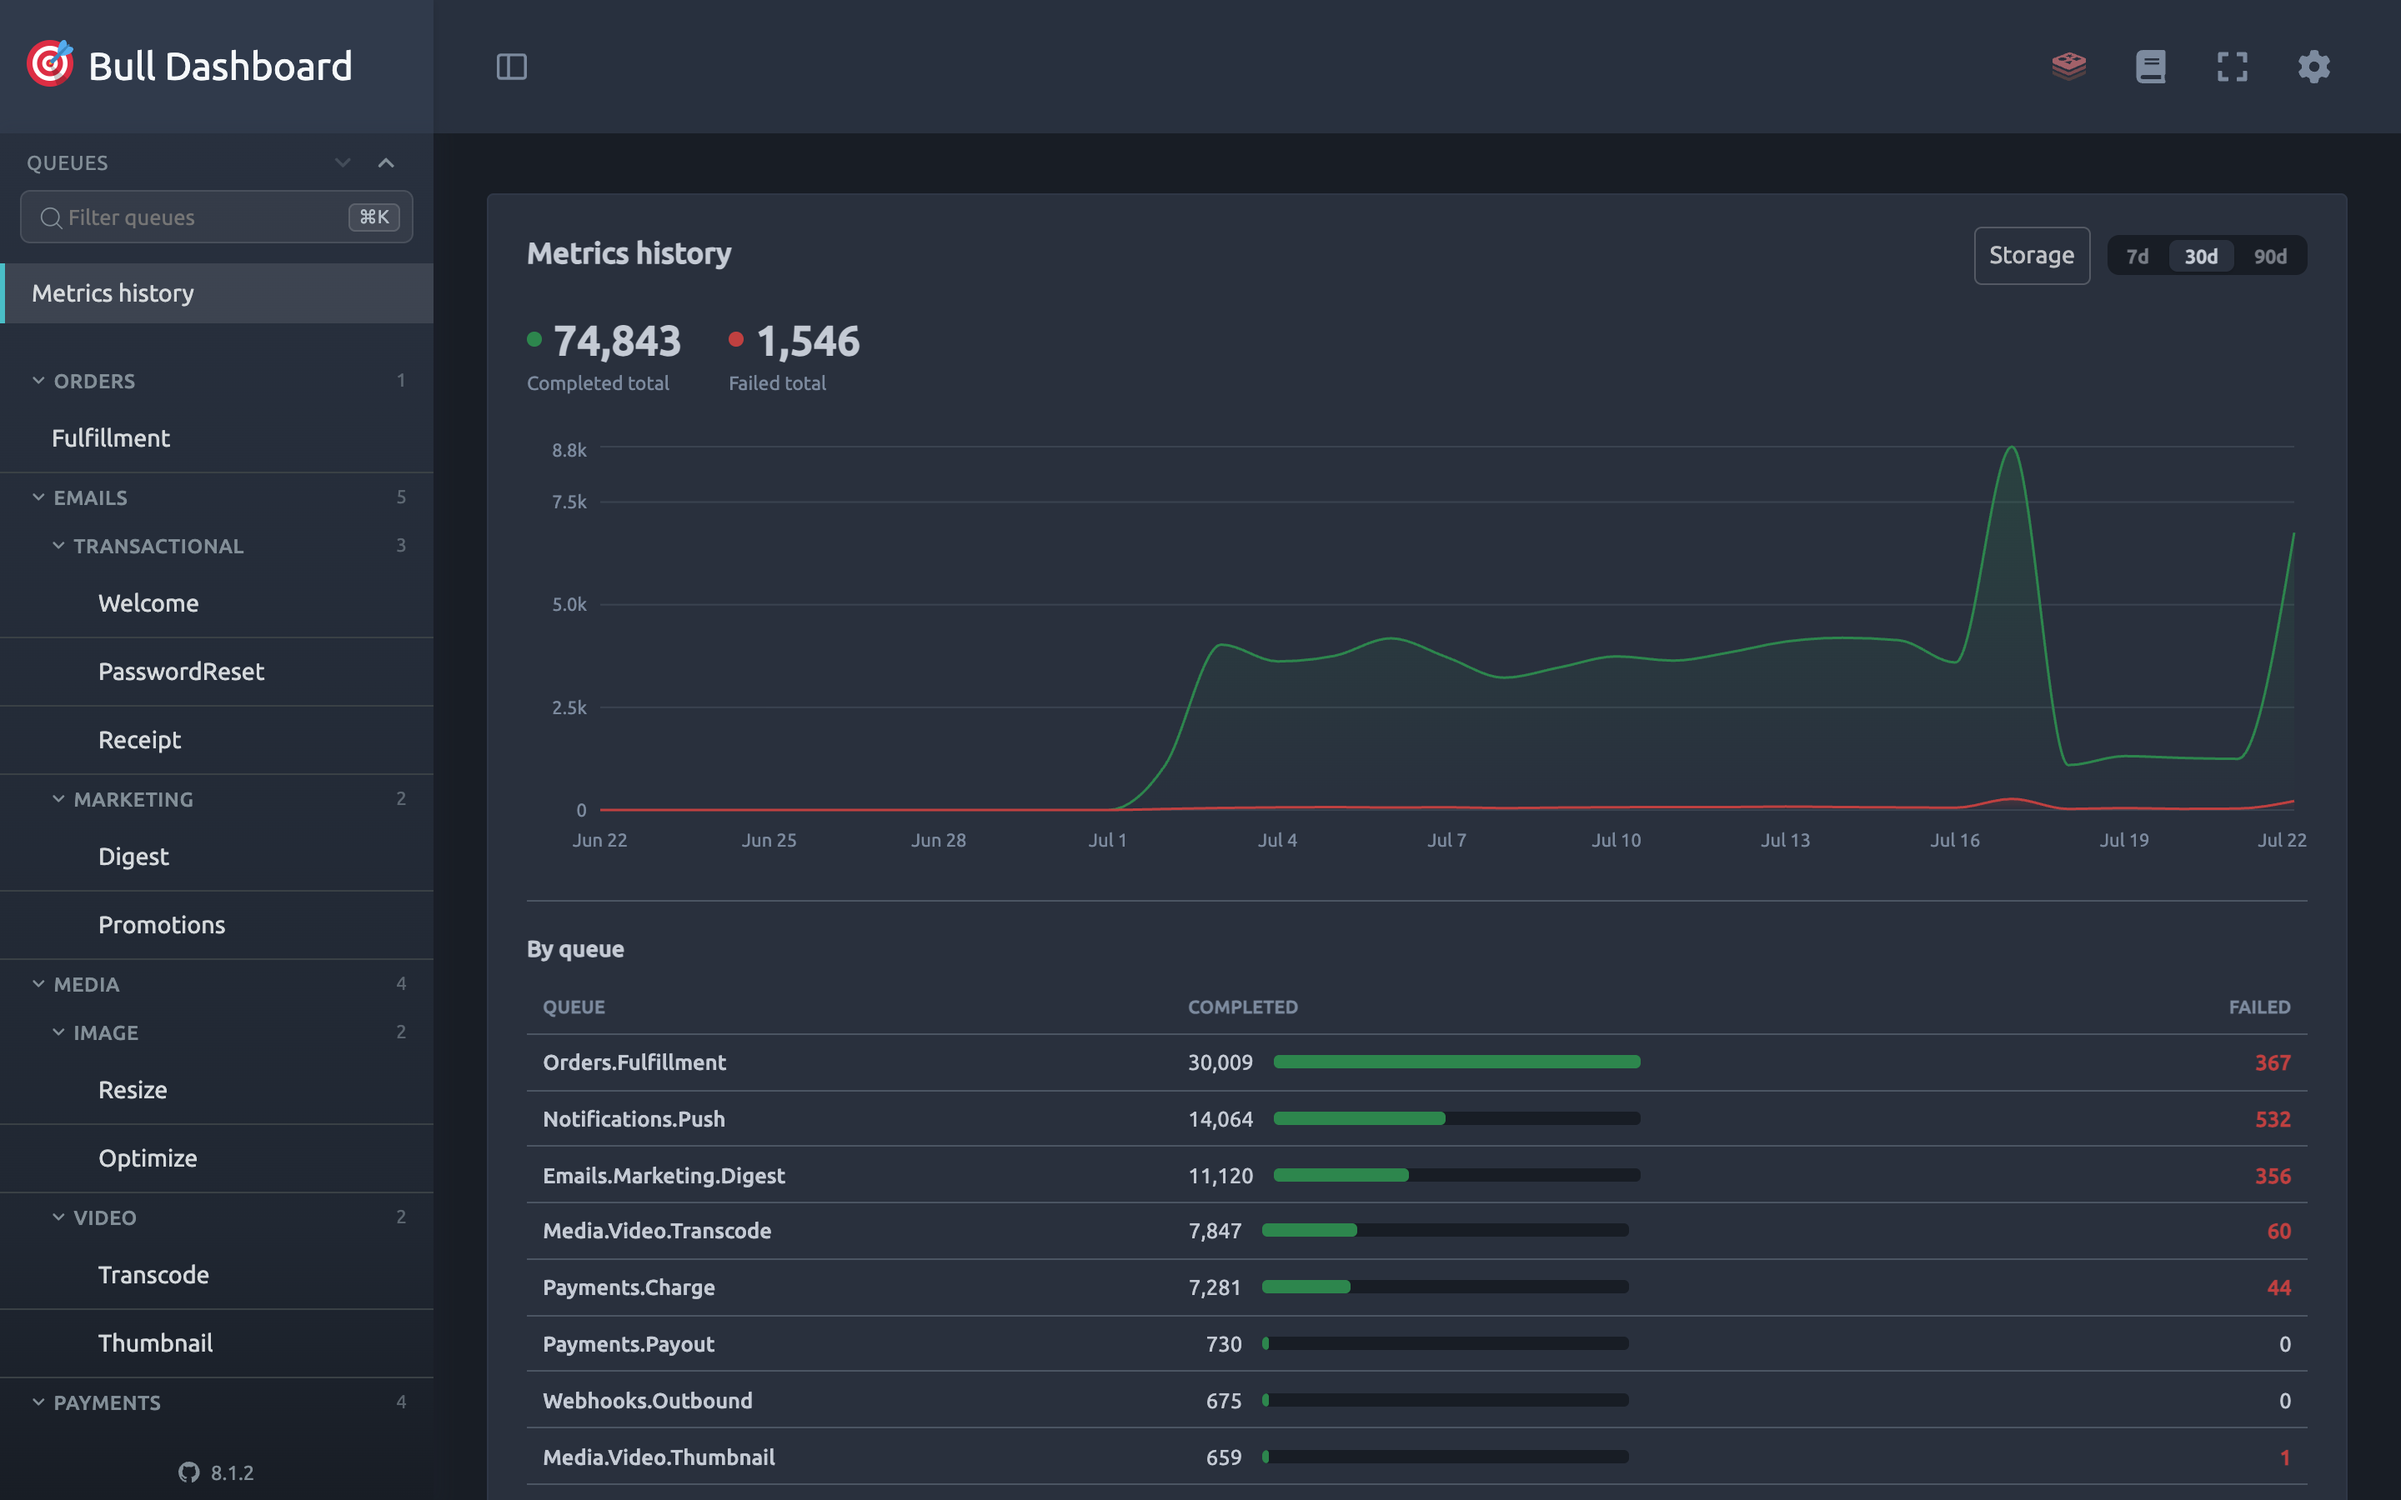
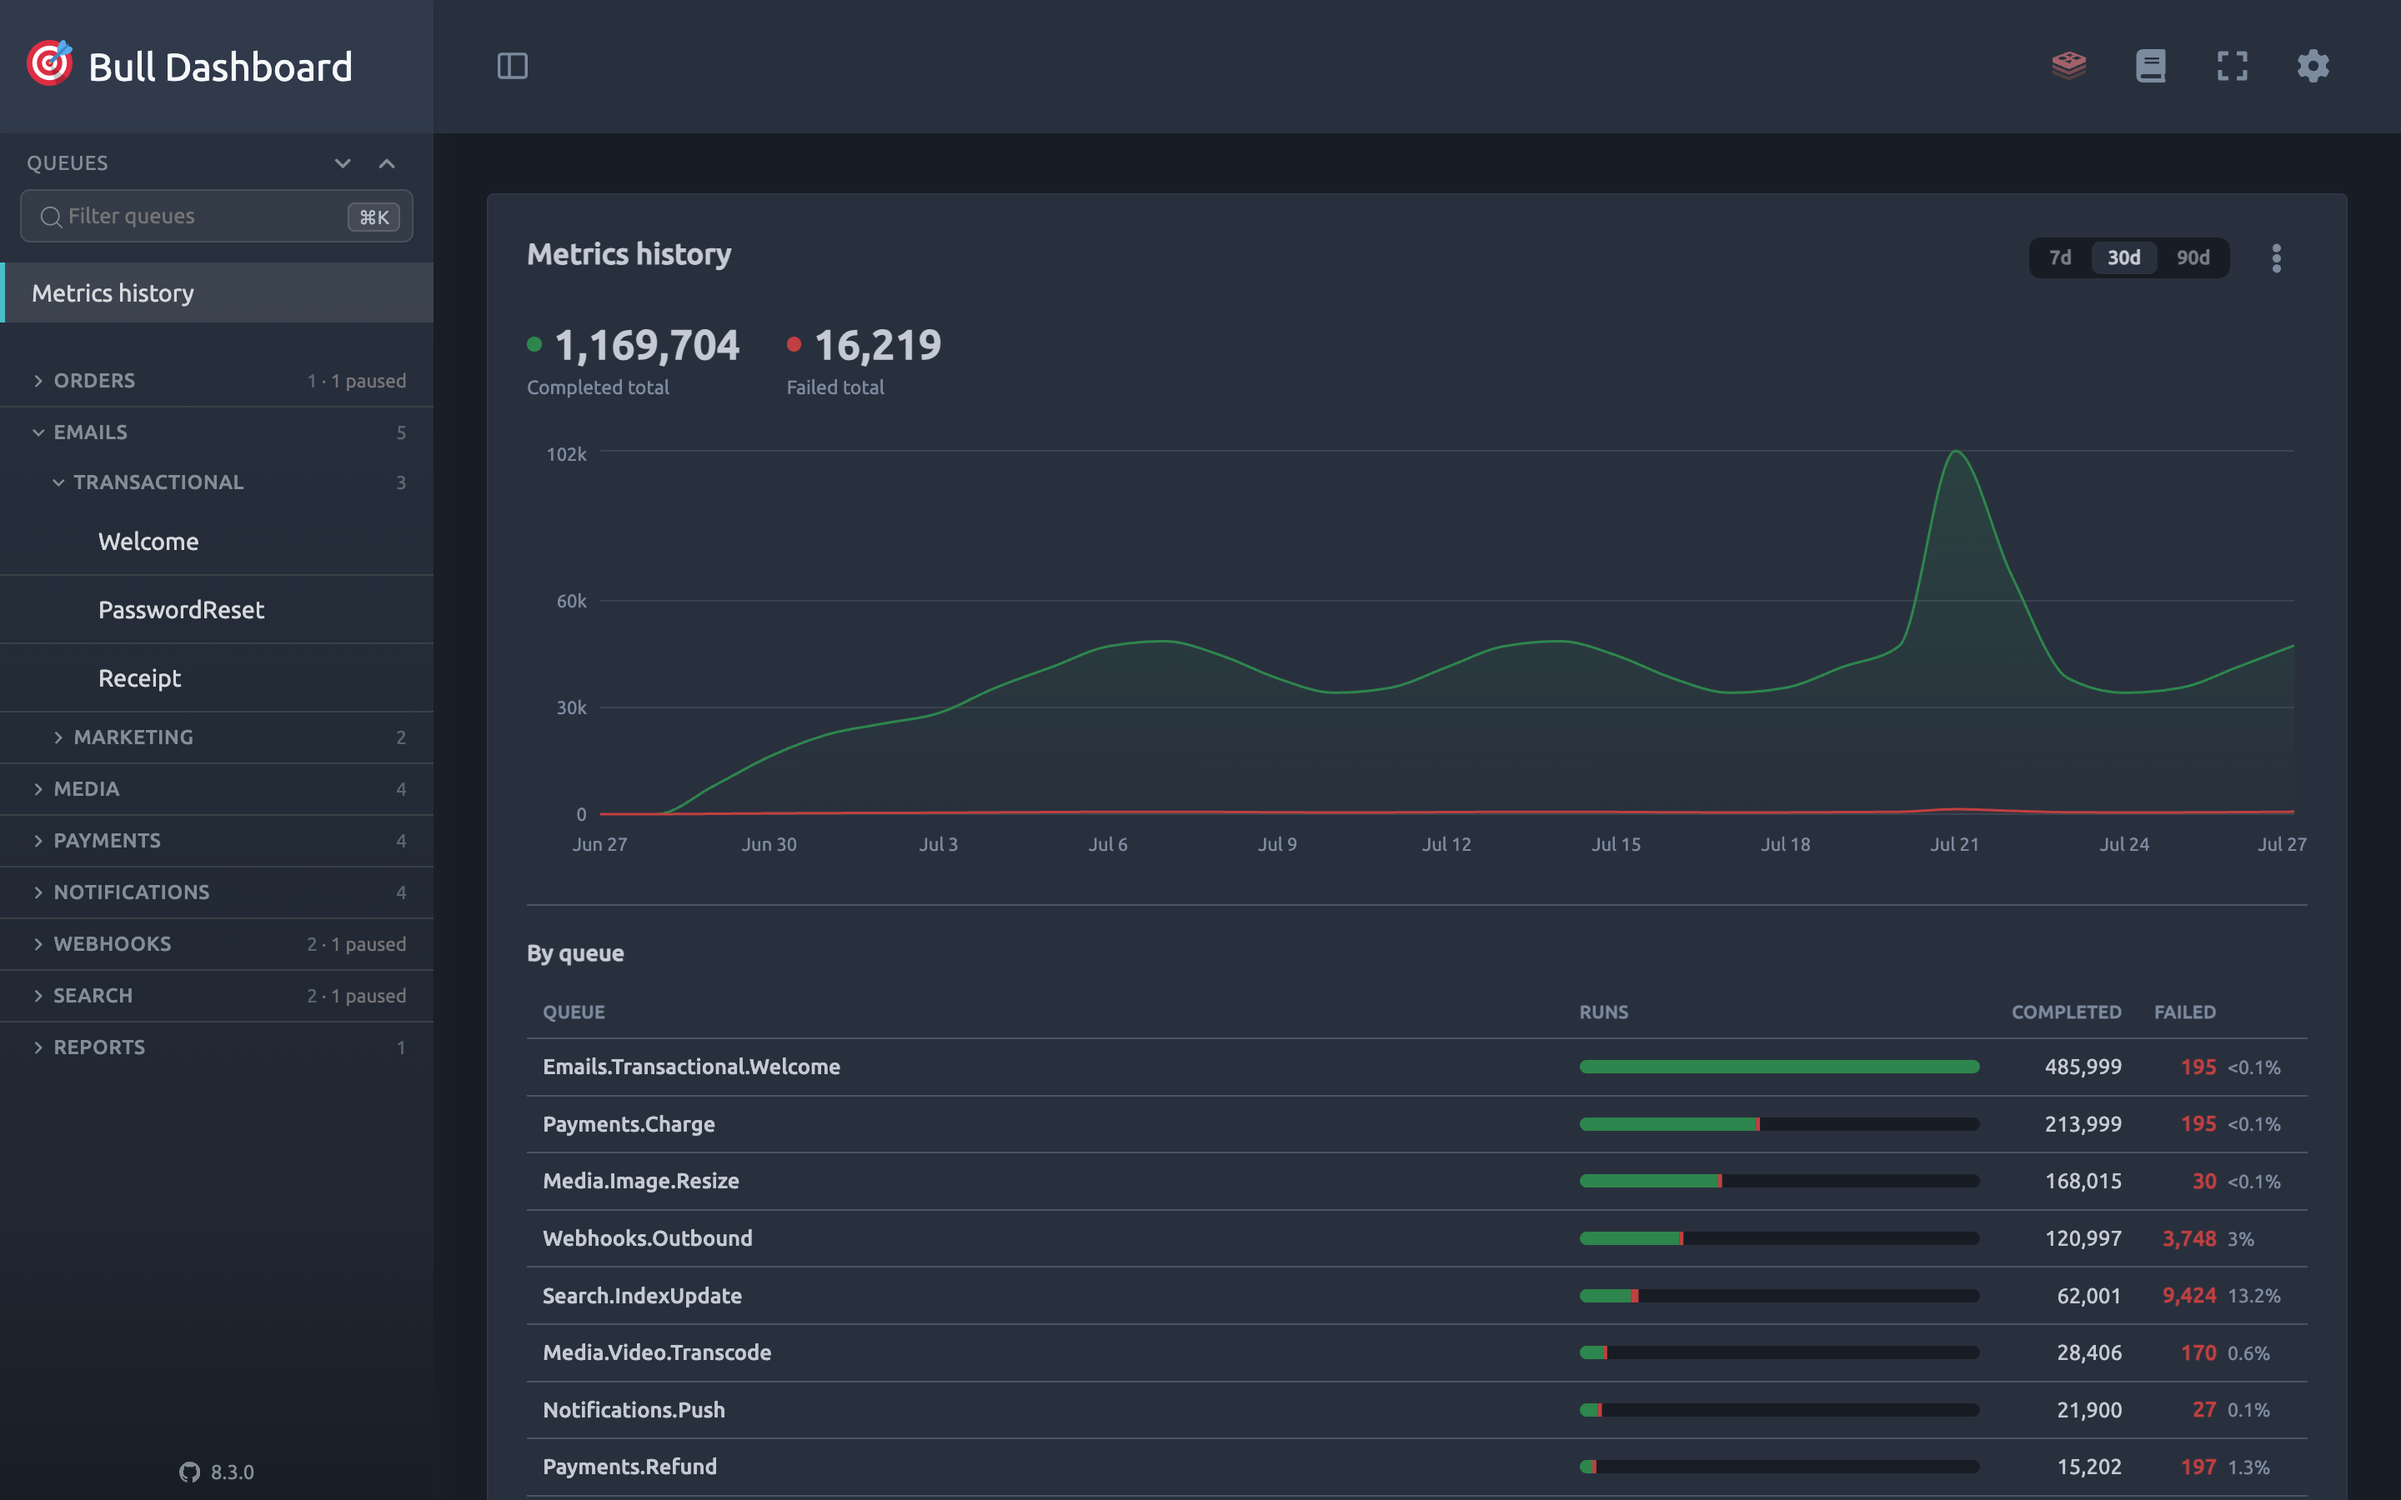
feat(ui): show completed vs failed split in the metrics history queue table

diff --git a/packages/ui/src/pages/MetricsHistoryPage/QueueThroughputRow.tsx b/packages/ui/src/pages/MetricsHistoryPage/QueueThroughputRow.tsx
@@ -1,7 +1,12 @@
 import { useEffect } from 'react';
+import { useTranslation } from 'react-i18next';
 import { sum } from '../../components/ThroughputAreaChart/throughputSeries';
+import { Tooltip } from '../../components/Tooltip/Tooltip';
 import { useHistoryMetrics } from '../../hooks/useHistoryMetrics';
 import s from './MetricsHistoryPage.module.css';
+
+/** Percent of the track below which a non-zero segment would round away to nothing. */
+const MIN_SEGMENT = 1;
 
 export interface QueueTotals {
   completed: number;
@@ -12,17 +17,26 @@ export interface QueueThroughputRowProps {
   queueName: string;
   from: number;
   to: number;
-  maxCompleted: number;
+  /** Runs of the busiest queue in the range; every bar is scaled against it. */
+  maxTotal: number;
   onTotals: (queueName: string, totals: QueueTotals) => void;
 }
+
+const formatRate = (rate: number): string => {
+  if (rate > 0 && rate < 0.1) {
+    return '<0.1%';
+  }
+  return `${rate.toLocaleString(undefined, { maximumFractionDigits: 1 })}%`;
+};
 
 export const QueueThroughputRow = ({
   queueName,
   from,
   to,
-  maxCompleted,
+  maxTotal,
   onTotals,
 }: QueueThroughputRowProps) => {
+  const { t } = useTranslation();
   const { completed, failed, loading } = useHistoryMetrics({
     queue: queueName,
     from,
@@ -32,6 +46,7 @@ export const QueueThroughputRow = ({
 
   const totalCompleted = sum(completed.map((point) => point.value));
   const totalFailed = sum(failed.map((point) => point.value));
+  const total = totalCompleted + totalFailed;
 
   useEffect(() => {
     if (!loading) {
@@ -40,31 +55,59 @@ export const QueueThroughputRow = ({
     // eslint-disable-next-line react-hooks/exhaustive-deps
   }, [queueName, loading, totalCompleted, totalFailed]);
 
-  const barWidth = maxCompleted > 0 ? Math.round((totalCompleted / maxCompleted) * 100) : 0;
+  const scale = maxTotal > 0 ? 100 / maxTotal : 0;
+  const segment = (value: number) => (value > 0 ? Math.max(value * scale, MIN_SEGMENT) : 0);
+  const completedSegment = segment(totalCompleted);
+  const failedSegment = segment(totalFailed);
+  const failureRate = total > 0 ? (totalFailed / total) * 100 : 0;
+
+  const barLabel = t('METRICS_HISTORY.BAR_LABEL', {
+    completed: totalCompleted.toLocaleString(),
+    failed: totalFailed.toLocaleString(),
+  });
 
   return (
     <tr className={s.tableRow}>
       <td className={s.tableCellQueue}>{queueName}</td>
-      <td className={s.completedCell}>
+      <td className={s.barCell}>
         {loading ? (
-          <span className={s.num}>…</span>
+          <span className={s.track} />
         ) : (
-          <div className={s.completedInner}>
-            <span className={s.num}>{totalCompleted.toLocaleString()}</span>
+          <Tooltip title={barLabel} className={s.barTooltip}>
+            {/* Hidden, not labelled: the tooltip and the two cells beside it
+                already announce these numbers. */}
             <span className={s.track} aria-hidden="true">
-              <span className={s.fill} style={{ width: `${barWidth}%` }} />
+              <span className={s.bar}>
+                <span
+                  className={s.fillCompleted}
+                  style={{ transform: `scaleX(${completedSegment / 100})` }}
+                />
+                <span
+                  className={s.fillFailed}
+                  style={{
+                    transform: `translateX(${completedSegment}%) scaleX(${failedSegment / 100})`,
+                  }}
+                />
+              </span>
             </span>
-          </div>
+          </Tooltip>
         )}
       </td>
+      <td className={s.tableCellNumeric}>{loading ? '…' : totalCompleted.toLocaleString()}</td>
       <td className={s.tableCellNumeric}>
-        {loading ? (
-          '…'
-        ) : (
-          <span className={totalFailed > 0 ? s.failedValue : undefined}>
-            {totalFailed.toLocaleString()}
+        <span className={s.failedCell}>
+          <span className={totalFailed > 0 ? s.failedValue : s.zeroValue}>
+            {loading ? '…' : totalFailed.toLocaleString()}
           </span>
-        )}
+          {totalFailed > 0 && (
+            <Tooltip
+              title={t('METRICS_HISTORY.FAILURE_RATE', { rate: formatRate(failureRate) })}
+              className={s.failureRate}
+            >
+              {formatRate(failureRate)}
+            </Tooltip>
+          )}
+        </span>
       </td>
     </tr>
   );

diff --git a/packages/ui/src/pages/MetricsHistoryPage/MetricsHistoryPage.module.css b/packages/ui/src/pages/MetricsHistoryPage/MetricsHistoryPage.module.css
@@ -1,6 +1,6 @@
 .page {
   padding-top: 0.25rem;
-  max-width: 1120px;
+  max-width: 1600px;
 }
 
 .card {
@@ -119,15 +119,23 @@
 }
 
 .thQueue {
+  width: 100%;
   text-align: left;
 }
 
-.thCompleted {
+.thBar {
   text-align: left;
 }
 
 .thNumeric {
   text-align: right;
+}
+
+/* Cell padding + the rate slot + its gap, so the label sits over the counts
+   rather than the rate beside them. Keep in sync with .failedCell. */
+.table .thFailed {
+  text-align: right;
+  padding-right: calc(0.6rem + 2.4rem + 0.4rem);
 }
 
 .tableRow {
@@ -153,42 +161,96 @@
   font-variant-numeric: tabular-nums;
 }
 
-.completedCell {
-  width: 55%;
+.barCell {
+  width: 240px;
 }
 
-.completedInner {
-  display: flex;
-  align-items: center;
-  gap: 0.75rem;
-}
-
-.num {
-  min-width: 4.5ch;
-  text-align: right;
-  color: var(--text-color);
-  font-variant-numeric: tabular-nums;
+.barTooltip {
+  display: block;
 }
 
 .track {
-  flex: 1;
-  max-width: 220px;
+  display: block;
+  width: 240px;
   height: 0.5rem;
-  border-radius: 3px;
+  border-radius: 999px;
   background-color: var(--body-bg);
   overflow: hidden;
+  transition: box-shadow 0.15s ease;
 }
 
-.fill {
+.tableRow:hover .track {
+  box-shadow: inset 0 0 0 1px var(--separator-color);
+}
+
+.bar {
+  position: relative;
   display: block;
   height: 100%;
-  border-radius: 3px;
+  transform-origin: left center;
+  animation: fill 0.5s cubic-bezier(0.22, 1, 0.36, 1) both;
+}
+
+@keyframes fill {
+  from {
+    transform: scaleX(0);
+  }
+  to {
+    transform: none;
+  }
+}
+
+/* Full-width and scaled rather than sized, so a totals refresh stays on the
+   compositor instead of relaying out every row. */
+.fillCompleted,
+.fillFailed {
+  position: absolute;
+  inset: 0;
+  transform-origin: left center;
+  transition: transform 0.3s cubic-bezier(0.22, 1, 0.36, 1);
+}
+
+.fillCompleted {
   background-color: var(--completed);
+}
+
+.fillFailed {
+  background-color: var(--failed);
+}
+
+/* The slot is rem, not ch: .thFailed mirrors it at a smaller font size. */
+.failedCell {
+  display: inline-grid;
+  grid-template-columns: 1fr 2.4rem;
+  align-items: baseline;
+  gap: 0.4rem;
 }
 
 .failedValue {
   color: var(--failed);
   font-weight: 600;
+}
+
+.failureRate {
+  text-align: left;
+  font-size: 0.72rem;
+  color: var(--accent-color);
+  cursor: help;
+}
+
+.zeroValue {
+  color: var(--accent-color);
+}
+
+@media (prefers-reduced-motion: reduce) {
+  .bar {
+    animation: none;
+  }
+
+  .fillCompleted,
+  .fillFailed {
+    transition: none;
+  }
 }
 
 @media (max-width: 768px) {

diff --git a/packages/ui/src/pages/MetricsHistoryPage/MetricsHistoryPage.tsx b/packages/ui/src/pages/MetricsHistoryPage/MetricsHistoryPage.tsx
@@ -75,10 +75,9 @@ export const MetricsHistoryPage = () => {
     });
   }, []);
 
-  const maxQueueCompleted = Math.max(
-    0,
-    ...Object.values(queueTotals).map((total) => total.completed)
-  );
+  const runs = (totals: QueueTotals) => totals.completed + totals.failed;
+
+  const maxQueueRuns = Math.max(0, ...Object.values(queueTotals).map(runs));
 
   const sortedQueueNames = (queues ?? [])
     .map((queue) => queue.name)
@@ -94,7 +93,7 @@ export const MetricsHistoryPage = () => {
       if (!totalB) {
         return -1;
       }
-      return totalB.completed - totalA.completed;
+      return runs(totalB) - runs(totalA);
     });
 
   return (
@@ -175,8 +174,9 @@ export const MetricsHistoryPage = () => {
               <thead>
                 <tr>
                   <th className={s.thQueue}>{t('METRICS_HISTORY.QUEUE')}</th>
-                  <th className={s.thCompleted}>{t('METRICS_HISTORY.COMPLETED')}</th>
-                  <th className={s.thNumeric}>{t('METRICS_HISTORY.FAILED')}</th>
+                  <th className={s.thBar}>{t('METRICS_HISTORY.RUNS')}</th>
+                  <th className={s.thNumeric}>{t('METRICS_HISTORY.COMPLETED')}</th>
+                  <th className={s.thFailed}>{t('METRICS_HISTORY.FAILED')}</th>
                 </tr>
               </thead>
               <tbody>
@@ -186,7 +186,7 @@ export const MetricsHistoryPage = () => {
                     queueName={queueName}
                     from={from}
                     to={to}
-                    maxCompleted={maxQueueCompleted}
+                    maxTotal={maxQueueRuns}
                     onTotals={handleQueueTotals}
                   />
                 ))}

diff --git a/packages/ui/src/components/ThroughputAreaChart/ThroughputAreaChart.tsx b/packages/ui/src/components/ThroughputAreaChart/ThroughputAreaChart.tsx
@@ -60,7 +60,7 @@ export const ThroughputAreaChart = ({
           <span className={s.tooltipSwatch} style={{ backgroundColor: 'var(--completed)' }} />
           <span className={s.tooltipName}>{t('METRICS.COMPLETED')}</span>
           <span className={s.tooltipValue}>
-            {row.completed}
+            {row.completed.toLocaleString()}
             {valueUnit ? <span className={s.tooltipUnit}>{valueUnit}</span> : null}
           </span>
         </div>
@@ -68,7 +68,7 @@ export const ThroughputAreaChart = ({
           <span className={s.tooltipSwatch} style={{ backgroundColor: 'var(--failed)' }} />
           <span className={s.tooltipName}>{t('METRICS.FAILED')}</span>
           <span className={s.tooltipValue}>
-            {row.failed}
+            {row.failed.toLocaleString()}
             {valueUnit ? <span className={s.tooltipUnit}>{valueUnit}</span> : null}
           </span>
         </div>

diff --git a/packages/ui/src/components/Tooltip/Tooltip.tsx b/packages/ui/src/components/Tooltip/Tooltip.tsx
@@ -1,8 +1,12 @@
 import { PropsWithChildren } from 'react';
 import s from './Tooltip.module.css';
 
-export const Tooltip = ({ title, children }: PropsWithChildren<{ title: string }>) => (
-  <span data-title={title} className={s.tooltip}>
+export const Tooltip = ({
+  title,
+  className,
+  children,
+}: PropsWithChildren<{ title: string; className?: string }>) => (
+  <span data-title={title} className={className ? `${s.tooltip} ${className}` : s.tooltip}>
     {children}
   </span>
 );

diff --git a/website/docs/recipes/historical-metrics.md b/website/docs/recipes/historical-metrics.md
@@ -212,7 +212,9 @@ With `showMetrics: true`, each queue's metrics chart gains a range selector: 60m
 
 ![Queue metrics chart with the 60m / 7d / 30d / 90d range selector](/screenshots/historical-metrics-range.png)
 
-A "Metrics history" page also appears in the sidebar, independent of `showMetrics`. It's a cross-queue view, the closest thing bull-board has to a wallboard: total completed/failed throughput across every registered queue, over the same range selector, plus a per-queue breakdown table underneath (each queue's completed/failed totals with a proportional bar, sorted by throughput).
+A "Metrics history" page also appears in the sidebar, independent of `showMetrics`. It's a cross-queue view, the closest thing bull-board has to a wallboard: total completed/failed throughput across every registered queue, over the same range selector, plus a per-queue breakdown table underneath, sorted by total runs.
+
+Each row in that table carries a bar scaled against the busiest queue and split into a completed and a failed segment. Bar length compares volume between queues, the split compares outcomes inside one queue, and hovering a bar gives the exact counts. A queue that only fails a fraction of a percent of its runs would otherwise draw a segment too thin to see, so a non-zero segment never shrinks below 1% of the track. The failure rate is spelled out next to the failed count.
 
 ![The dedicated Metrics history page showing cross-queue throughput](/screenshots/historical-metrics-page.png)
 
